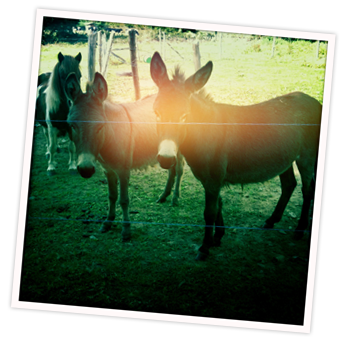
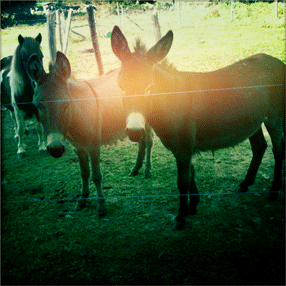
merge demos

diff --git a/demo/index.html b/demo/index.html
@@ -4,12 +4,13 @@
     <title>StackedGallery demo</title>
     <meta charset="utf-8">
     <link rel="stylesheet" type="text/css" href="style.css" media="screen" />
+    <!--[if lte IE 8]><link rel="stylesheet" type="text/css" href="style-ie.css" media="screen" /><![endif]-->
   </head>
   <body>
     <ul id="photos">
-      <li><img src="images/photo-01.png" /></li>
-      <li><img src="images/photo-02.png" /></li>
-      <li><img src="images/photo-03.png" /></li>
+      <li id="photo-01"><img src="images/photo-01.png" /></li>
+      <li id="photo-02"><img src="images/photo-02.png" /></li>
+      <li id="photo-03"><img src="images/photo-03.png" /></li>
     </ul>
     <script type="text/javascript" src="http://code.jquery.com/jquery-1.4.2.min.js"></script>
     <script type="text/javascript" src="../stacked-gallery.js"></script>

diff --git a/demo/style.css b/demo/style.css
@@ -1,18 +1,39 @@
 body {
   padding: 0;
   margin: 0;
-  background: #f2f2f2;
+  background: #ddd;
 }
 
 ul#photos {
   position: relative;
-  width: 346px;
-  height: 344px;
-  margin: 50px 50px auto;
+  width: 300px;
+  height: 300px;
+  margin: 65px 65px auto;
   padding: 0;
   list-style-type: none;
 }
 
 ul#photos li {
   position: absolute;
+  width: 286px;
+  height: 286px;
+  border: 7px solid #fff9f9;
+  -moz-box-shadow: 0 0 5px #aaa;
+  -webkit-box-shadow: 0 0 5px #aaa;
+}
+
+#photo-01 {
+  top: -3px;
+  left: 8px;
+  -moz-transform: rotate(5.0deg);
+  -webkit-transform: rotate(5.0deg);
+}
+#photo-02 {
+  -moz-transform: rotate(-1.2deg);
+  -webkit-transform: rotate(-1.2deg);
+}
+#photo-03 {
+  left: 4px;
+  -moz-transform: rotate(2.2deg);
+  -webkit-transform: rotate(2.2deg);
 }
